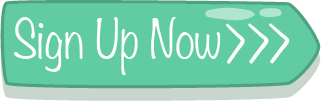
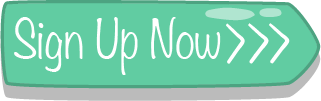
buttons, formatting, js

Changed region(s): [[0.0, 0.5347, 0.9969, 1.0]]

diff --git a/java.js b/java.js
@@ -1,6 +1,7 @@
 var widthToAnimate
 var timerToShowScrollDown = 7500
 var scrollDownIntervall
+var scrollEnabled = false;
 $(document).ready(function(){
     
     scrollTo(0, 750)
@@ -21,14 +22,20 @@ $(document).ready(function(){
     $('.wrapper').each(function(){
         $(this).attr('id', val++)
     })
-    
+
+    var margin = $('.navItem').first().height()
+    var curr = 0
+    var currMargin = [-2, -1, 0, 1]
     $('.navItem').each(function(){
         $(this).html('<span class="square">&#8213;</span>' + $(this).html())
+        $(this).css({marginTop: margin * currMargin[curr++]})
         $(this).trigger('mouseenter')
         $(this).trigger('mouseleave')
     })
     
     $('.navItem').first().trigger('mouseenter').trigger('mouseleave')
+
+    $('#SignUp').css({marginRight: -$(this).width() / 2})
     
     var logo = $('#Logo').find('img').first()
     logo.css({marginTop: $('#Logo').height() / 2 - logo.height() / 2})
@@ -59,6 +66,11 @@ $(document).ready(function(){
             $('#ScrollDown').fadeIn(100).fadeOut(100).fadeIn(100).fadeOut(100).fadeIn(400)
         }
     }, 100)
+
+    setTimeout(function(){
+        scrollEnabled = true;
+        console.log('scroll activated')
+    }, 3500)
     
 })
 
@@ -69,16 +81,18 @@ $(document).ready(function(){
     var timer = scrollEnableAfter
     var interval
     var section = 0
-    
+
     $(window).on('mousewheel', function(e){
         e.preventDefault()
-        if(timer >= scrollEnableAfter){
-            if(e.originalEvent.wheelDelta / 120 > 0) {
-                console.log('scrolling up !')
-                if(section > 0) scroll('up')
-            }else{
-                console.log('scrolling down !')
-                if(section < $('.wrapper').length - 1) scroll('down')
+        if(scrollEnabled) {
+            if (timer >= scrollEnableAfter) {
+                if (e.originalEvent.wheelDelta / 120 > 0) {
+                    console.log('scrolling up !')
+                    if (section > 0) scroll('up')
+                } else {
+                    console.log('scrolling down !')
+                    if (section < $('.wrapper').length - 1) scroll('down')
+                }
             }
         }
     
@@ -86,14 +100,16 @@ $(document).ready(function(){
     
     $(window).keydown(function(e){
         if (e.keyCode == 38 || e.keyCode == 40) e.preventDefault()
-        if(timer >= scrollIntervall){
-            if (e.keyCode == 38) {
-                if(section > 0) scroll('up')
-                return true
-            }
-            if(e.keyCode == 40){
-                if(section < $('.wrapper').length - 1) scroll('down')
-                return true
+        if(scrollEnabled){
+            if(timer >= scrollIntervall){
+                if (e.keyCode == 38) {
+                    if(section > 0) scroll('up')
+                    return true
+                }
+                if(e.keyCode == 40){
+                    if(section < $('.wrapper').length - 1) scroll('down')
+                    return true
+                }
             }
         }
     })
@@ -158,6 +174,10 @@ $(document).ready(function(){
             }else{
                 $('#BackToTop').fadeOut(300)
             }
+        if($('html, body').scrollTop() >= $("#" + 1).offset().top && $('html, body').scrollTop() < $('html, body').height() - $(window).height()){
+            $('#SignUp').fadeIn(300)
+            $('#SignUp').animate({marginRight: 0}, 500)
+        }
     }
     
     $('#BackToTop').click(function(){
@@ -169,26 +189,36 @@ $(document).ready(function(){
     
 /* ######################## NAVIGATION ######################## */
 
+    $('#SignUp').hover(function() {
+        $(this).attr('src', 'img/SignUpBtnHv.png')
+    }, function () {
+        $(this).attr('src', 'img/SignUpBtn.png')
+    });
+
     function checkNavigationBounds(){
+
         if(section == 0){
             $('.navItem').animate({color: '#ffffff'}, 500)
+            $('#SignUp').animate({marginRight: -$(this).width() / 2}, 500)
+            $('#SignUp').fadeOut(300)
         }else{
             $('.navItem').animate({color: '#61cca2'}, 500)
             if(section == $('.wrapper').last().attr('id')){
-                $('.navItem:nth-last-child(2)').animate({color: '#ffffff'}, 500)
-                $('.navItem').last().animate({color: '#ffffff'}, 500)
+                $('.navItem').last().animate({color: '#ffffff'}, 500).prev().animate({color: '#ffffff'}, 500)
+                $('#SignUp').animate({marginRight: -$(this).width() / 2}, 500)
+                $('#SignUp').fadeOut(300)
             }
         }
     }
 
     $('.navItem').mouseenter(function(){
-        $(this).find('.square').fadeOut(100)
-        $(this).finish().animate({marginLeft: 0}, 300)
+        $(this).find('.square').finish().animate({opacity: 0}, 300)
+        $(this).finish().animate({marginRight: 0}, 300)
         console.log('Hover in')
     })
     $('.navItem').mouseleave(function(){
-        $(this).find('.square').fadeIn(100)
-        $(this).finish().animate({marginLeft: $(this).width() - $(this).find('.square').width()}, 300)
+        $(this).finish().animate({marginRight: - $(this).width() + $(this).find('.square').width()}, 300)
+        $(this).find('.square').finish().animate({opacity: 1}, 300)
         console.log('Hover out')
     })
     $('.navItem').click(function(){

diff --git a/index.html b/index.html
@@ -20,16 +20,15 @@
         </div>
         
         <img id="SignUp" src="img/SignUpBtn.png" alt="Sign Up">
-        
-        <div id="Navigation">
-            <div class="navItem"><span class="itemTitle">Login</span></div>
-            <div class="navItem"><span class="itemTitle">Matching</span></div>
-            <div class="navItem"><span class="itemTitle">Chat</span></div>
-            <div class="navItem"><span class="itemTitle">Location</span></div>
-        </div>
+
+        <div class="navItem"><span class="itemTitle">Login</span></div>
+        <div class="navItem"><span class="itemTitle">Matching</span></div>
+        <div class="navItem"><span class="itemTitle">Chat</span></div>
+        <div class="navItem"><span class="itemTitle">Location</span></div>
+
         
         <div class="section" id="Logo">
-            <div class="container">
+            <div class="contain">
                 <div class="wrapper">
                   <div class="centered full">
                       <img id="LogoPicture" src="img/LunchPalsLogo.png" alt="Logo">
@@ -59,7 +58,7 @@
                     </div>
                 </div>
             </div>
-            <div class="container">
+            <div class="contain">
                 <div class="wrapper">
                     <div class="centeredContainer left half">
                         <div class="centeredCell">
@@ -112,7 +111,7 @@
                 </div>
             </div>
             
-            <div class="container">
+            <div class="contain">
                 
                 <div class="wrapper">
                     <div class="centeredContainer left half">
@@ -159,7 +158,7 @@
         <!-- ###################################### CHAT ######################################-->
         
         <div class="section" id="Chat">
-            <div class="container">
+            <div class="contain">
                 <div class="wrapper">
                     <div class="centeredContainer left half">
                         <div class="centeredCell">
@@ -184,7 +183,7 @@
         <!-- ###################################### LOCATION ######################################-->
         
         <div class="section" id="Location">
-            <div class="container">
+            <div class="contain">
                 <div class="wrapper">
                     
                     <div class="centeredContainer left half">
@@ -211,7 +210,7 @@
         </div>
         
         <footer class="section">
-            <div class="container">
+            <div class="contain">
     
                 <div class="wrapper">
                     <div class="centeredContainer left half">
@@ -240,6 +239,7 @@
                         <div class="centeredCell">
                             <div class="centered">
                                 <a href="#"><h1><span>&#8681;</span> Download LunchPals</h1></a>
+                                <p>Coming Soon&trade;</p>
                                 <a href="about.html"><p>About Us</p></a>
                             </div>
                         </div>

diff --git a/css/style.css b/css/style.css
@@ -1,6 +1,5 @@
 body {
     text-align: center;
-    color: #00000;
     border-radius:5px; 
     background:#61cca2 !important;
     padding: 0;
@@ -88,12 +87,14 @@ p{
 #Chat img{
    box-shadow: 2px 2px 10px #66666633;
 }
-.container{
+.contain{
     width: 80%;
     margin: auto;
+    padding: 0;
 }
 .wrapper{
     min-height: 100vh;
+    padding: 0;
     /*outline: green 1px solid;*/
 }
 .product{
@@ -114,11 +115,12 @@ p{
 }
 
 #SignUp{
-    display: block;
+    display: none;
     position: fixed;
     top: 32px;
     right: 32px;
-    width: 100px !important;
+    width: 10%;
+    cursor: pointer;
 }
 
 #BackToTop, #ScrollDown{
@@ -155,15 +157,10 @@ p{
     bottom: -16px;
 }
 
-#Navigation{
+.navItem{
     position: fixed;
     right: 0;
     top: 50%;
-    margin-top: -64px;
-    max-width: 10%;
-}
-
-.navItem{
     display: block;
     opacity: 0;
     line-height: 32px;
@@ -211,4 +208,8 @@ footer p{
 
 button{
     cursor: pointer;
+}
+
+.debug{
+    outline: 1px solid red;
 }
